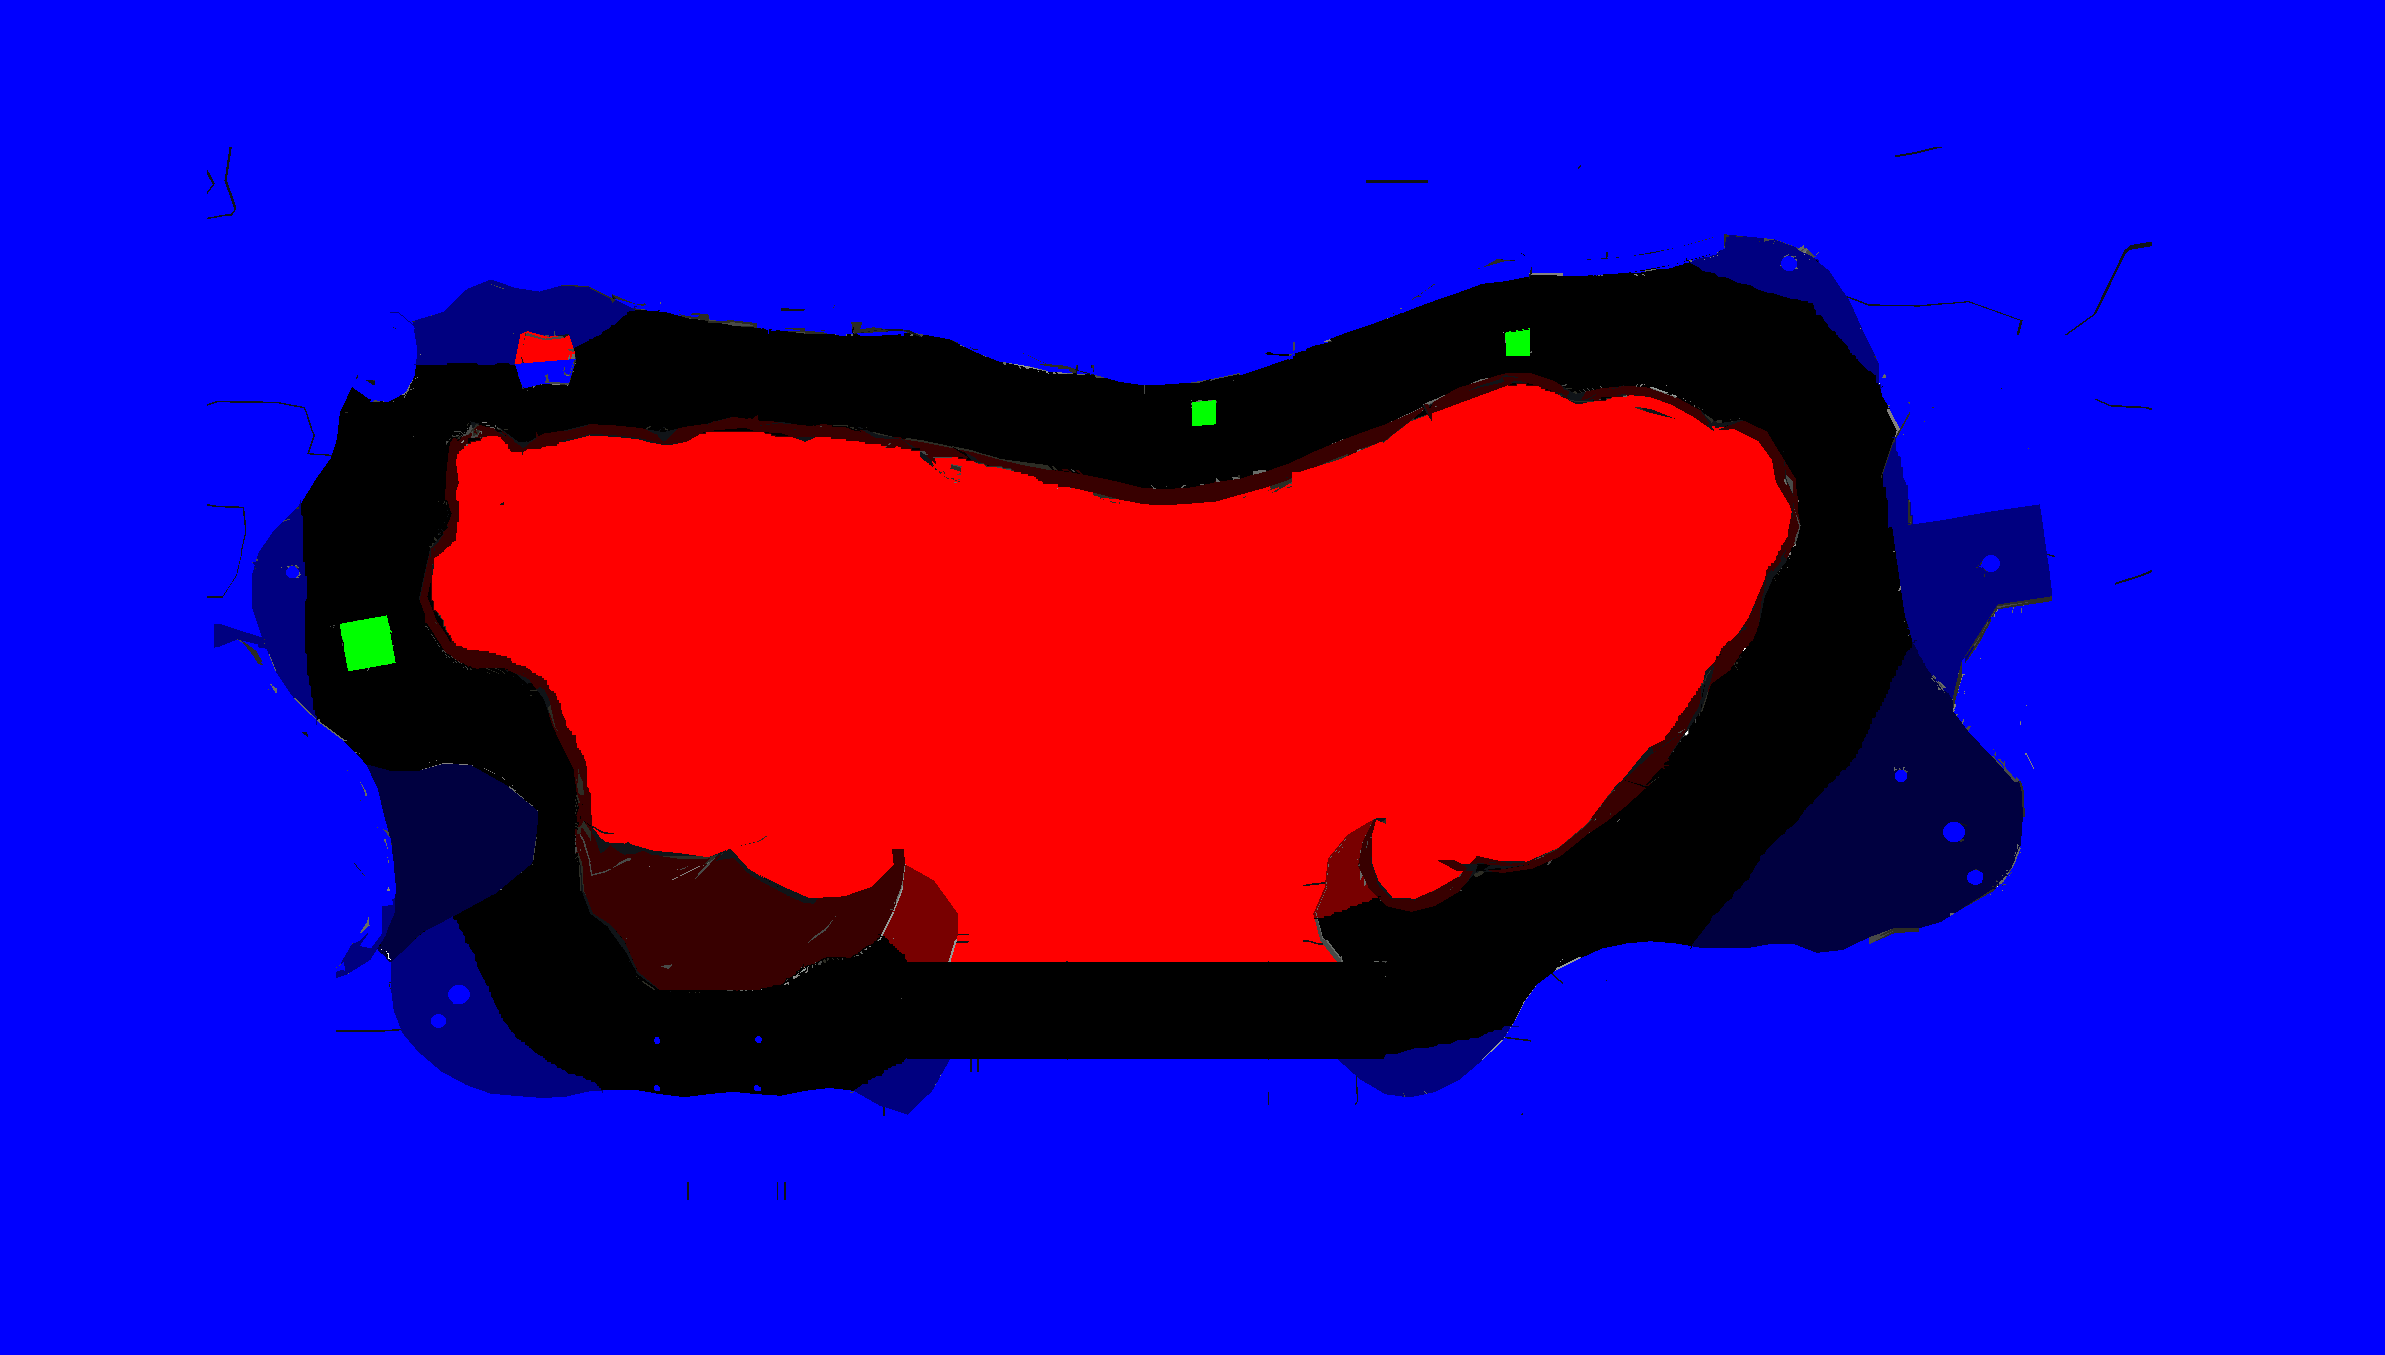
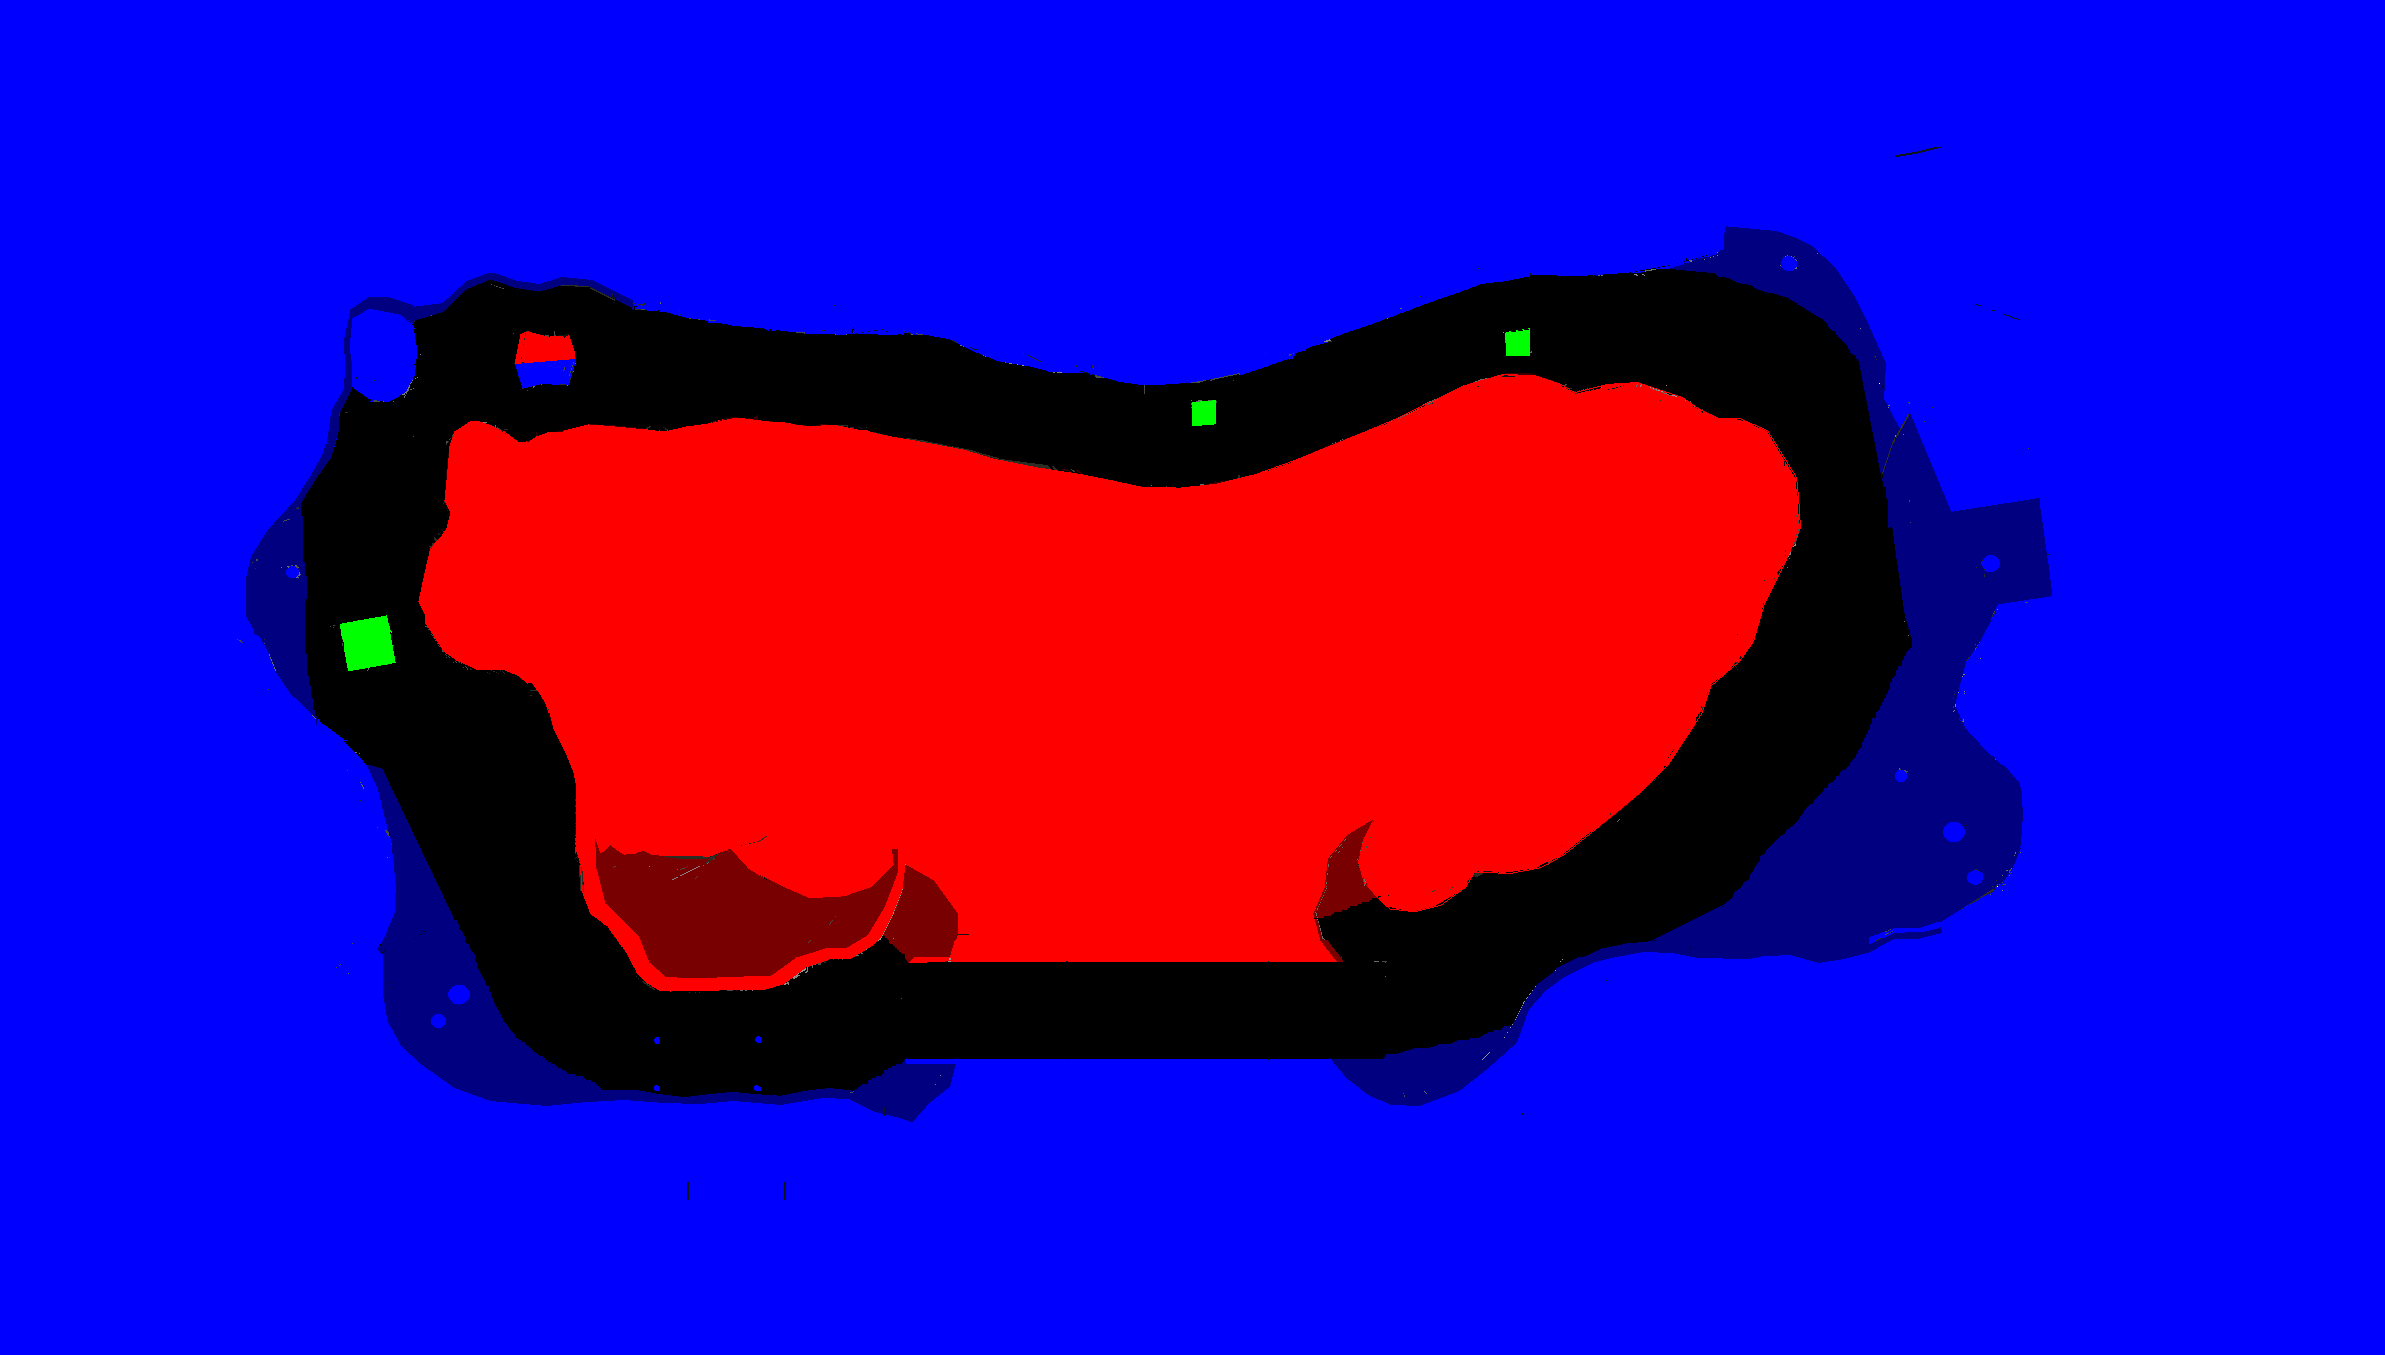
improve track images

diff --git a/cv2/ctrAI.py b/cv2/ctrAI.py
@@ -104,7 +104,7 @@ class TrackImage():
 		(1229., 1209.),
 		(1050., 801.),
 		(1485., 1181.),
-		(1339., 1271.),
+		(1339., 1400.),
 		(1287., 1226.),
 		(1244., 974.),
 		(1503., 1158.)
@@ -130,8 +130,10 @@ class TrackImage():
 			else:
 				image_index = 1
 		if track_id == 8:
-			if (progress < 59000):
+			if (progress < 53000):
 				image_index = 0
+			elif (progress < 59000):
+				image_index = 2
 			else:
 				image_index = 1
 		if track_id == 9:
@@ -147,6 +149,8 @@ class TrackImage():
 		if track_id == 12:
 			if (progress < 38000 or progress > 137000):
 				image_index = 0
+			elif progress > 83000:
+				image_index = 2
 			else:
 				image_index = 1
 		if track_id == 13:
@@ -170,6 +174,20 @@ class TrackImage():
 				image_index = 2
 			else:
 				image_index = 3
+		if track_id == 16:
+			if (progress < 84000 and progress > 40000):
+				image_index = 2
+			elif (progress < 40001 and progress > 21000):
+				image_index = 1
+			else:
+				image_index = 0
+		if track_id == 17:
+			if (progress < 41000 and progress > 36500):
+				image_index = 1
+			elif (progress < 36501 and progress > 32000):
+				image_index = 0
+			else:
+				image_index = 2
 
 		a = self.get_x(a, track_id)
 		b = self.get_y(b, track_id)
@@ -275,11 +293,11 @@ TARGET_UPDATE = 30
 NORMALISATION_CONST = 4000000
 lr = 0.0005
 manual_training = False
-is_checkpoint = False
-testing = False
+is_checkpoint = True
+testing = True
 checkpoint = None
 if is_checkpoint:
-	checkpoint = torch.load("models/ctrai_cv2.model")
+	checkpoint = torch.load("models/ctrai_cv2_450_2_92.model")
 
 crop_size = 20
 n_actions = 3

diff --git a/cv2/testing/test.py b/cv2/testing/test.py
@@ -98,7 +98,7 @@ class TrackImage():
 		(1229., 1209.),
 		(1050., 801.),
 		(1485., 1181.),
-		(1339., 1271.),
+		(1339., 1400.),
 		(1287., 1226.),
 		(1244., 974.),
 		(1503., 1158.)
@@ -124,8 +124,10 @@ class TrackImage():
 			else:
 				image_index = 1
 		if track_id == 8:
-			if (progress < 59000):
+			if (progress < 53000):
 				image_index = 0
+			elif (progress < 59000):
+				image_index = 2
 			else:
 				image_index = 1
 		if track_id == 9:
@@ -141,6 +143,8 @@ class TrackImage():
 		if track_id == 12:
 			if (progress < 38000 or progress > 137000):
 				image_index = 0
+			elif progress > 83000:
+				image_index = 2
 			else:
 				image_index = 1
 		if track_id == 13:
@@ -164,6 +168,20 @@ class TrackImage():
 				image_index = 2
 			else:
 				image_index = 3
+		if track_id == 16:
+			if (progress < 84000 and progress > 40000):
+				image_index = 2
+			elif (progress < 40001 and progress > 21000):
+				image_index = 1
+			else:
+				image_index = 0
+		if track_id == 17:
+			if (progress < 41000 and progress > 36500):
+				image_index = 1
+			elif (progress < 36501 and progress > 32000):
+				image_index = 0
+			else:
+				image_index = 2
 
 		a = self.get_x(a, track_id)
 		b = self.get_y(b, track_id)
